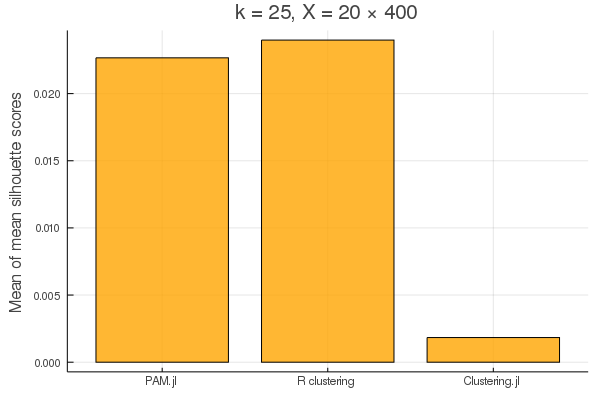
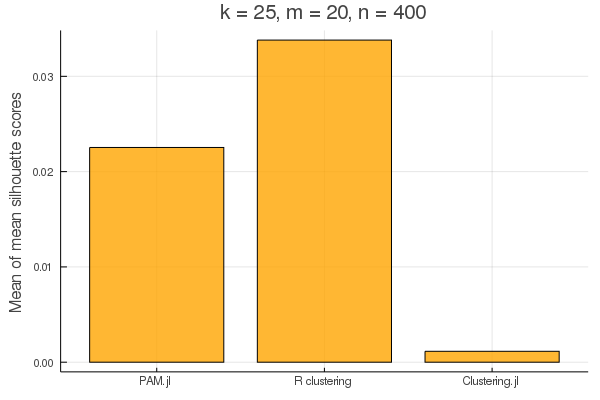
updated comparison images, description

diff --git a/README.md b/README.md
@@ -41,7 +41,7 @@ results = pam(D,k)
 
 ### Cluster Quality Comparison
 
-I've compared the results of the cluster quality from this implementation to the `kmedoids` function from `Clustering.jl` as well as the `pam` function from R's `cluster` package. To compare the quality of the clusters, clustering was performed 1,000 times on randomly-generated matrices of different sizes (`m` × `n`) and values of `k`. At each iteration, the mean silhouette score was computed and stored. Finally, the mean of all 1,000 mean silhouette scores was computed:
+I've compared the results of the cluster quality from this implementation to the `kmedoids` function from `Clustering.jl` as well as the `pam` function from R's `cluster` package. To compare the quality of the clusters, clustering was performed 1,000 times on randomly-generated matrices of different sizes (`m` × `n`) and values of `k`. At each iteration, the mean silhouette score was computed and stored. Finally, the mean of all 1,000 mean silhouette scores was computed (higher values represent better separation of clusters):
 
 ![1](https://github.com/mthelm85/PAM.jl/blob/main/img/k2m2n10.png?raw=true)
 
@@ -52,7 +52,7 @@ I've compared the results of the cluster quality from this implementation to the
 ![4](https://github.com/mthelm85/PAM.jl/blob/main/img/k25m20n400.png?raw=true)
 
 
-R's `cluster` package provides the best results across all values tested while PAM.jl provides the second-best results. The performance of Clustering.jl is far better than either the R package or PAM.jl but clustering quality is significantly worse at higher values of `k` with higher dimensionsal and larger data sets (at least when generated randomly).
+R's `cluster` package provides the best results across all values tested while `PAM.jl` provides the second-best results. It should be noted, however, that the performance of `Clustering.jl` is far better than either the R package or `PAM.jl` but clustering quality is significantly worse at higher values of `k` with higher dimensionsal and larger data sets (at least when generated randomly).
 
 The comparisons were generated with the following code:
 
